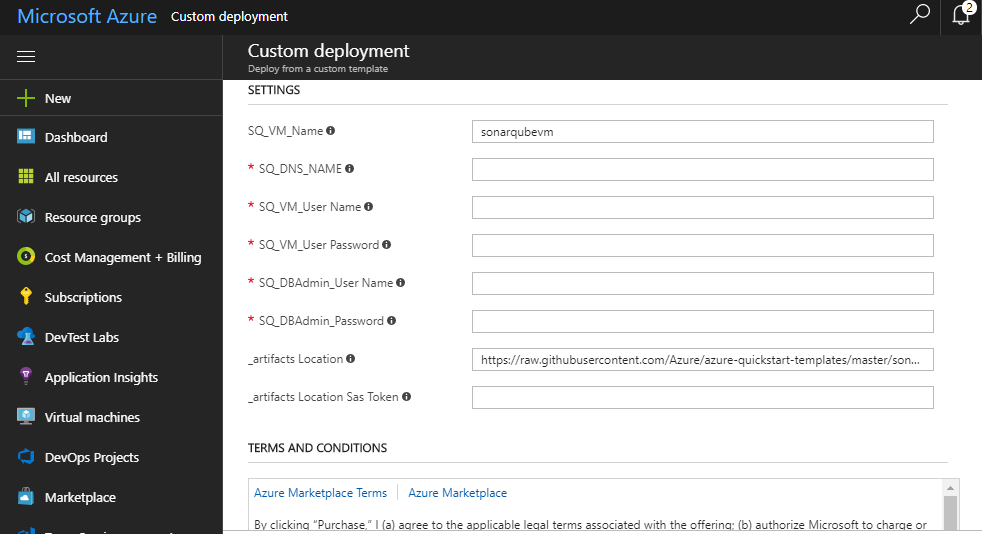
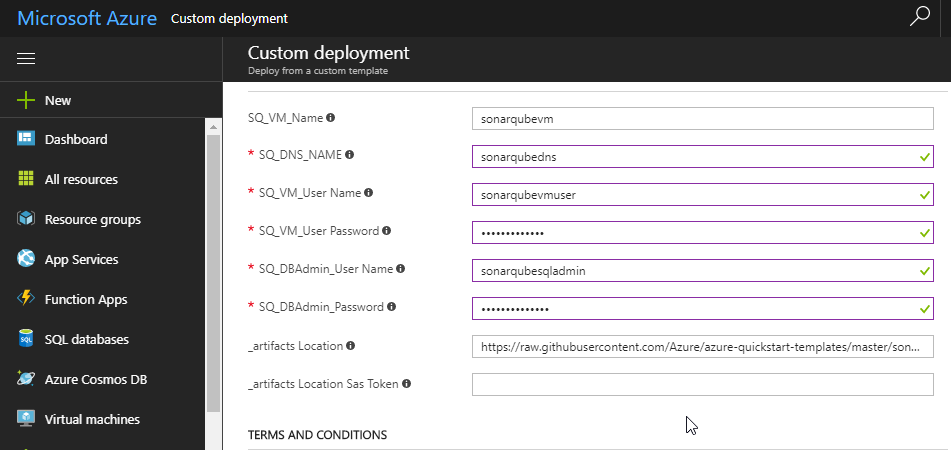
modified content, updated DeploytoAzure json URL, changed screenshots

diff --git a/sonarqube/readme.md b/sonarqube/readme.md
@@ -23,11 +23,11 @@ Technical debt is the set of problems in a development effort that make forward 
 
 1. Click **Deploy To Azure** to provision SonarQube Server on Azure VM.
 
-   <a href="https://portal.azure.com/#create/Microsoft.Template/uri/https%3A%2F%2Fraw.githubusercontent.com%2Fhsachinraj%2FAzurelabs%2Fmaster%2Fsonarqube%2Ftemplates%2Fazuredeploy.json"><img src="http://azuredeploy.net/deploybutton.png"></a>
+   <a href="https://portal.azure.com/#create/Microsoft.Template/uri/https%3A%2F%2Fraw.githubusercontent.com%2FMicrosoft%2FVSTS-DevOps-Labs%2Fsonarqube%2Fsonarqube%2Ftemplates%2Fazuredeploy.json"><img src="http://azuredeploy.net/deploybutton.png"></a>
 
-    <img src="images/CustomDeployAzure1.png"></a>
+    <img src="images/CustomDeployAzure1.png"></a> 
 
-    <img src="images/CustomDeployAzure2.png"></a>
+    <img src="images/CustomDeployAzure2.png"></a> 
 
   
    Provide the following parameters as shown.
@@ -92,7 +92,7 @@ Technical debt is the set of problems in a development effort that make forward 
 
 2. After providing all of the required values in the above table, check the Terms & Conditions checkbox and click on the Purchase button.
 
-   <img src="images/CustomDeployAzure3.png"></a>
+   <img src="images/CustomDeployAzure3.png"></a> 
 
    >It takes approximately 25-30 minutes to provision the environment
 
@@ -113,15 +113,11 @@ Technical debt is the set of problems in a development effort that make forward 
 
    <img src="images/sonarqube_portal.png">
 
-Now, let us create a SonarQube project.
-
-1. Login to the SonarQube portal.
-
-2. Click on **Administration** in the toolbar, go to **Projects** tab and click **Management**.
+3. Click on **Administration** in the toolbar, go to **Projects** tab and click **Management**.
 
    <img src="images/sonar_admin.png">
 
-3. Create a project with **Name** and **Key** as **MyShuttle**. 
+4. Create a project with **Name** and **Key** as **MyShuttle**. 
 
    - **Name**: Name of the SonarQube project that will be displayed on the web interface
 
